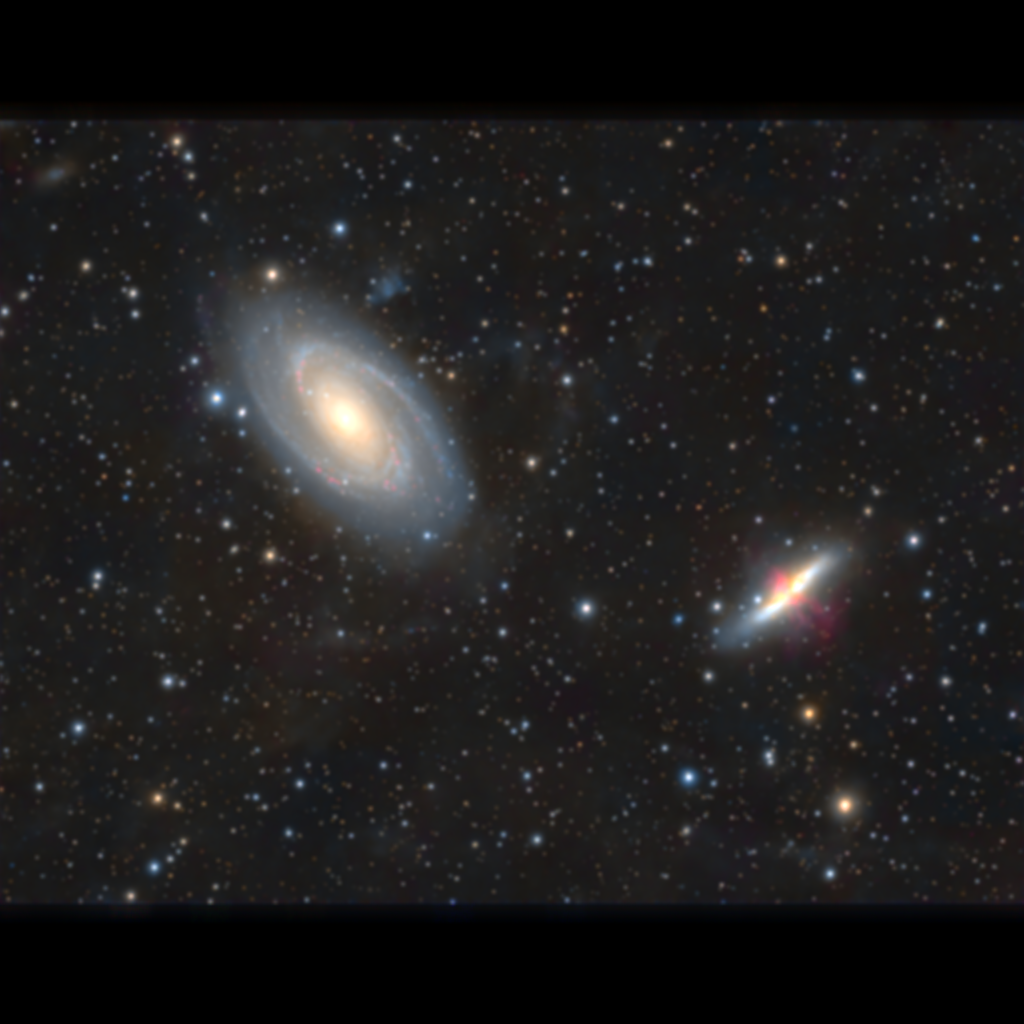
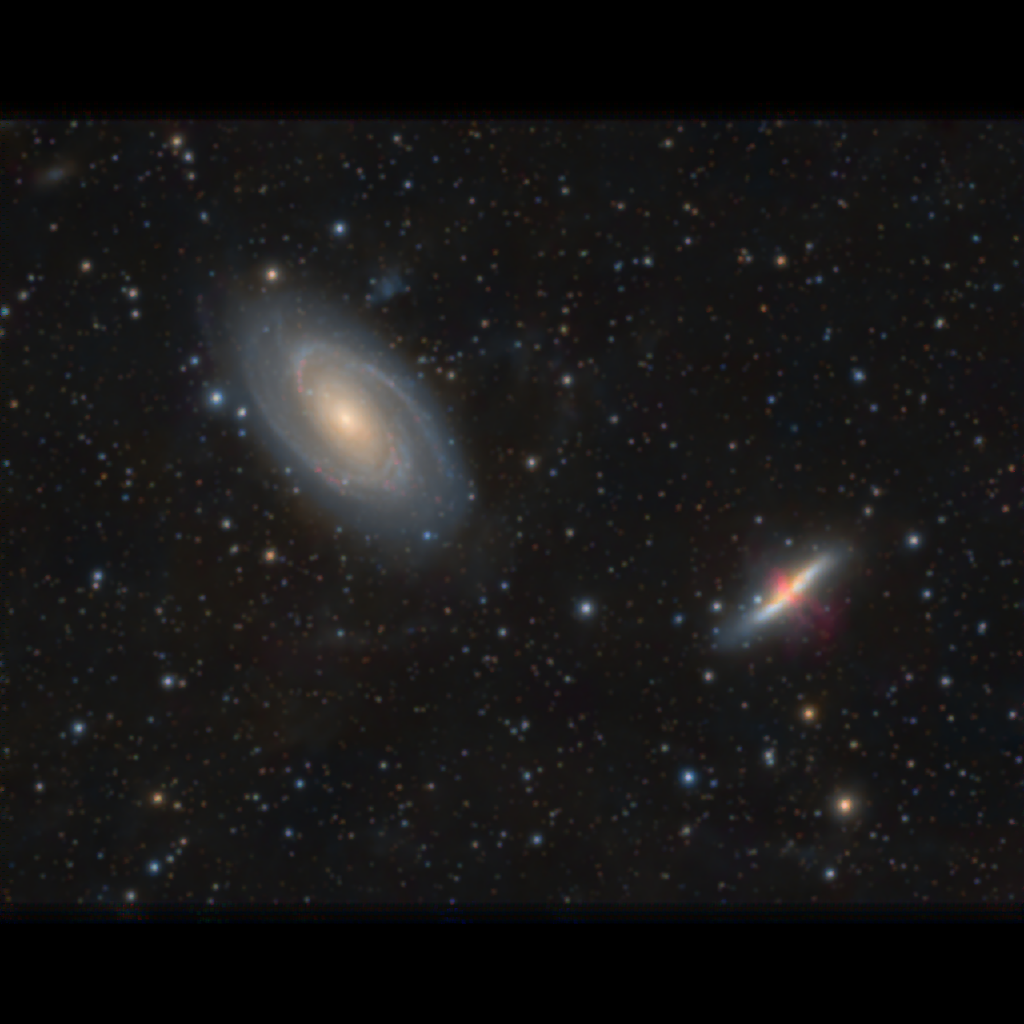
Create visualization of color moire for readme

diff --git a/reconstruct_improved.ts b/reconstruct_improved.ts
@@ -102,49 +102,67 @@ async function reconstructImage() {
     await new Promise((resolve) => out.on('finish', resolve));
   }
 
-  const averaged = new Uint8ClampedArray(accumulator.length);
+  const stack = new Uint8ClampedArray(accumulator.length);
   for (let i = 0; i < accumulator.length; i += 4) {
-    averaged[i] = Math.min(255, accumulator[i] / NUM_IMAGES);       // Red
-    averaged[i + 1] = Math.min(255, accumulator[i + 1] / NUM_IMAGES); // Green (adjusted!)
-    averaged[i + 2] = Math.min(255, accumulator[i + 2] / NUM_IMAGES);     // Blue
-    averaged[i + 3] = 255;
+    stack[i] = Math.min(255, accumulator[i] / NUM_IMAGES);       // Red
+    stack[i + 1] = Math.min(255, accumulator[i + 1] / NUM_IMAGES); // Green (adjusted!)
+    stack[i + 2] = Math.min(255, accumulator[i + 2] / NUM_IMAGES);     // Blue
+    stack[i + 3] = 255;
   }
 
-  const patternAveraged = new Uint8ClampedArray(patternAccumulator.length);
-  for (let i = 0; i < patternAccumulator.length; i += 4) {
-    patternAveraged[i] = Math.min(255, patternAccumulator[i] / NUM_IMAGES);       // Red
-    patternAveraged[i + 1] = Math.min(255, patternAccumulator[i + 1] / NUM_IMAGES); // Green (no need to adjust because of subpixel normalization)
-    patternAveraged[i + 2] = Math.min(255, patternAccumulator[i + 2] / NUM_IMAGES);     // Blue
-    patternAveraged[i + 3] = 255;
-  }
-
+  const patternStack = new Uint8ClampedArray(patternAccumulator.length);
   let averagePattern = 0;
   let sampleCount = 0
   for (let i = 0; i < patternAccumulator.length; i += 4) {
-    averagePattern += patternAveraged[i];
-    averagePattern += patternAveraged[i + 1];
-    averagePattern += patternAveraged[i + 2];
+    patternStack[i] = Math.min(255, patternAccumulator[i] / NUM_IMAGES);       // Red
+    patternStack[i + 1] = Math.min(255, patternAccumulator[i + 1] / NUM_IMAGES); // Green (no need to adjust because of subpixel normalization)
+    patternStack[i + 2] = Math.min(255, patternAccumulator[i + 2] / NUM_IMAGES);     // Blue
+    patternStack[i + 3] = 255;
+    averagePattern += patternStack[i];
+    averagePattern += patternStack[i + 1];
+    averagePattern += patternStack[i + 2];
     sampleCount += 3;
   }
 
   averagePattern /= sampleCount;
 
+  const displayPattern = new Uint8ClampedArray(patternAccumulator.length);
+  for (let i = 0; i < patternAccumulator.length; i += 4) {
+    displayPattern[i] = Math.min(255, patternStack[i] / averagePattern * 85);       // Red
+    displayPattern[i + 1] = Math.min(255, patternStack[i + 1] / averagePattern * 85); // Green (no need to adjust because of subpixel normalization)
+    displayPattern[i + 2] = Math.min(255, patternStack[i + 2] / averagePattern * 85);     // Blue
+    displayPattern[i + 3] = 255;
+  }
+
+  const displayPatternCanvas = createCanvas(highResWidth, highResHeight);
+  const displayPatternCtx = displayPatternCanvas.getContext('2d');
+  const displayPatternImageData = displayPatternCtx.createImageData(highResWidth, highResHeight);
+  displayPatternImageData.data.set(displayPattern);
+  displayPatternCtx.putImageData(displayPatternImageData, 0, 0);
+
+  const patternOut = fs.createWriteStream('patternVisualization.png');
+  const patternStream = displayPatternCanvas.createPNGStream();
+  patternStream.pipe(patternOut);
+  await new Promise((resolve) => patternOut.on('finish', resolve));
+
+  console.log('✅ Visualization of Subtracted Moire pattern saved as "patternVisualization.png"');
+
   for (let i = 0; i < accumulator.length; i += 4) {
     for (let c = 0; c < 3; c++) {
       const patternValue = patternAccumulator[i + c];
       if (patternValue > 0) {
-        averaged[i + c] = Math.min(255, accumulator[i + c] / (patternValue / averagePattern / 4));
+        stack[i + c] = Math.min(255, accumulator[i + c] / (patternValue / averagePattern / 3));
       } else {
-        averaged[i + c] = 0;
+        stack[i + c] = 0;
       }
     }
-    averaged[i + 3] = 255;
+    stack[i + 3] = 255;
   }
 
   const highResCanvas = createCanvas(highResWidth, highResHeight);
   const highResCtx = highResCanvas.getContext('2d');
   const highResImageData = highResCtx.createImageData(highResWidth, highResHeight);
-  highResImageData.data.set(averaged);
+  highResImageData.data.set(stack);
   highResCtx.putImageData(highResImageData, 0, 0);
 
   const out = fs.createWriteStream('reconstruct_improved.png');

diff --git a/reconstruct.ts b/reconstruct.ts
@@ -51,9 +51,9 @@ async function reconstructImage() {
 
   const averaged = new Uint8ClampedArray(accumulator.length);
   for (let i = 0; i < accumulator.length; i += 4) {
-    averaged[i] = Math.min(255, accumulator[i] / NUM_IMAGES * 4);       // Red
-    averaged[i + 1] = Math.min(255, accumulator[i + 1] / NUM_IMAGES * 2); // Green (adjusted!)
-    averaged[i + 2] = Math.min(255, accumulator[i + 2] / NUM_IMAGES * 4);     // Blue
+    averaged[i] = Math.min(255, accumulator[i] / NUM_IMAGES);       // Red
+    averaged[i + 1] = Math.min(255, accumulator[i + 1] / NUM_IMAGES); // Green (adjusted!)
+    averaged[i + 2] = Math.min(255, accumulator[i + 2] / NUM_IMAGES);     // Blue
     averaged[i + 3] = 255;
   }
 

diff --git a/README.md b/README.md
@@ -2,9 +2,13 @@
 
 This project aims to be a playground for simulating stacked undersampled image reconstruction. In `index.ts` a camera is simulated to take "pictures" of an input image. In reconstruct.ts, a primitive image stacker is used as a baseline. In reconstruct_improved.ts, a subpixel-level normalization step is added.
 
+## Background Introduction
+
+Moiré patterns are created by interference when a pattern ruled to a grid with gaps is shifted and/or rotated overtop of an identical pattern. When using CFA/Bayered data or drizzling data bayered or mono, the gaps in color or in whole pixels exist to cause such an interference pattern. Another way of thinking about it is that the different output color subpixels end up being "observed" for different amounts of time. A reconstruction of the resulting artifact is shown below.
+
 ## Fixed Pixel Grid and Bayer Pattern Normalization
 
-The immediate goal is to document a technique I thought of for improving image stacking, especially of CFA drizzle bayered images, but also applicable to mono when drizzling with a fractional pixel factor. This improvement involves a subpixel-level normalization process which replaces the typical end normalization step in stacking. At registration time, a copy of each input image is registered with only the fixed pixel grid pattern and not the relative values of the pixels, and these registered fixed grid patterns are then stacked as well, such that whenever an input pixel is used for the final stack it's corresponding registered pixel grid pattern is added. The resulting stack which I'm calling the "imaging grid time observed pattern map" or "bayer time observed pattern map" for CFA images can then be divided out of the final image, virtually eliminating fixed grid noise introduced by the shapes of input pixels themselves and/or bayer patterns as long as each output point is observed at least once for each color.
+The immediate goal is to document a technique I thought of for improving image stacking, especially of CFA drizzle bayered images, but also applicable to mono when drizzling with a fractional pixel factor. This improvement involves a subpixel-level normalization process which replaces the typical end normalization step in stacking. At registration time, a copy of each input image is registered with only the fixed pixel grid pattern and not the relative values of the pixels, and these registered fixed grid patterns are then stacked as well, such that whenever an input pixel is used for the final stack its corresponding registered pixel grid pattern is added. The resulting stack which I'm calling the "imaging grid time observed pattern map" or "bayer time observed pattern map" for CFA images can then be divided out of the final image, virtually eliminating fixed grid noise introduced by the shapes of input pixels themselves and/or bayer patterns as long as each output point is observed at least once for each color.
 
 The technique is applicable to drizzle stacking of CFA data at any scale level and to drizzle stacking of mono data with pixel fraction less than image scale.
 
@@ -20,13 +24,17 @@ Original Image rescaled to output size:
 
 Reconstruction from 32 simulated bayered dithered camera images Without Subpixel Normalization
 
-SSIMULACRA2 score -89.4 (better values increase towards 100)
+SSIMULACRA2 score -245.1120366235277 (better values increase towards 100)
 
 ![Reconstruction from 32 simulated bayered dithered camera images Without Subpixel Normalization](reconstructed.png "M81-M82")
 
+Visualization of the aliasing/moire pattern recovered by the algorithm, passing neutral white frames through the bayer matrix and shifts/rotations simulated by camera dithering and stacking them.
+
+![Visualization of the aliasing/moire pattern recovered by the algorithm, passing neutral white frames through the bayer matrix and shifts/rotations simulated by camera dithering and stacking them](patternVisualization.png "Visualized Pattern to Divide Out")
+
 Reconstruction from 32 simulated bayered dithered camera images With Subpixel Normalization using the "imaging grid time observed pattern map"
 
-SSIMULACRA2 score -61.2
+SSIMULACRA2 score -94.2
 
 ![Reconstruction from 32 simulated bayered dithered camera images With Subpixel Normalization](reconstruct_improved.png "M81-M82")
 
